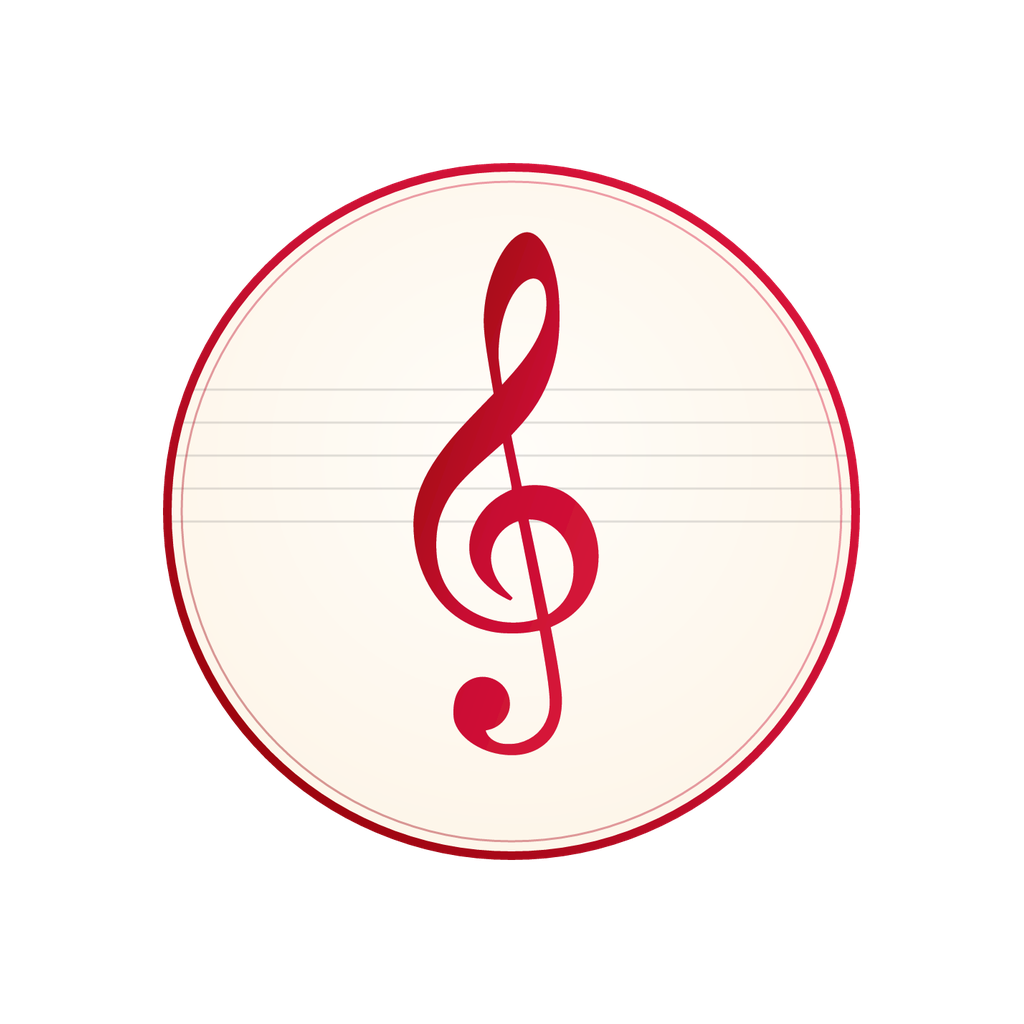
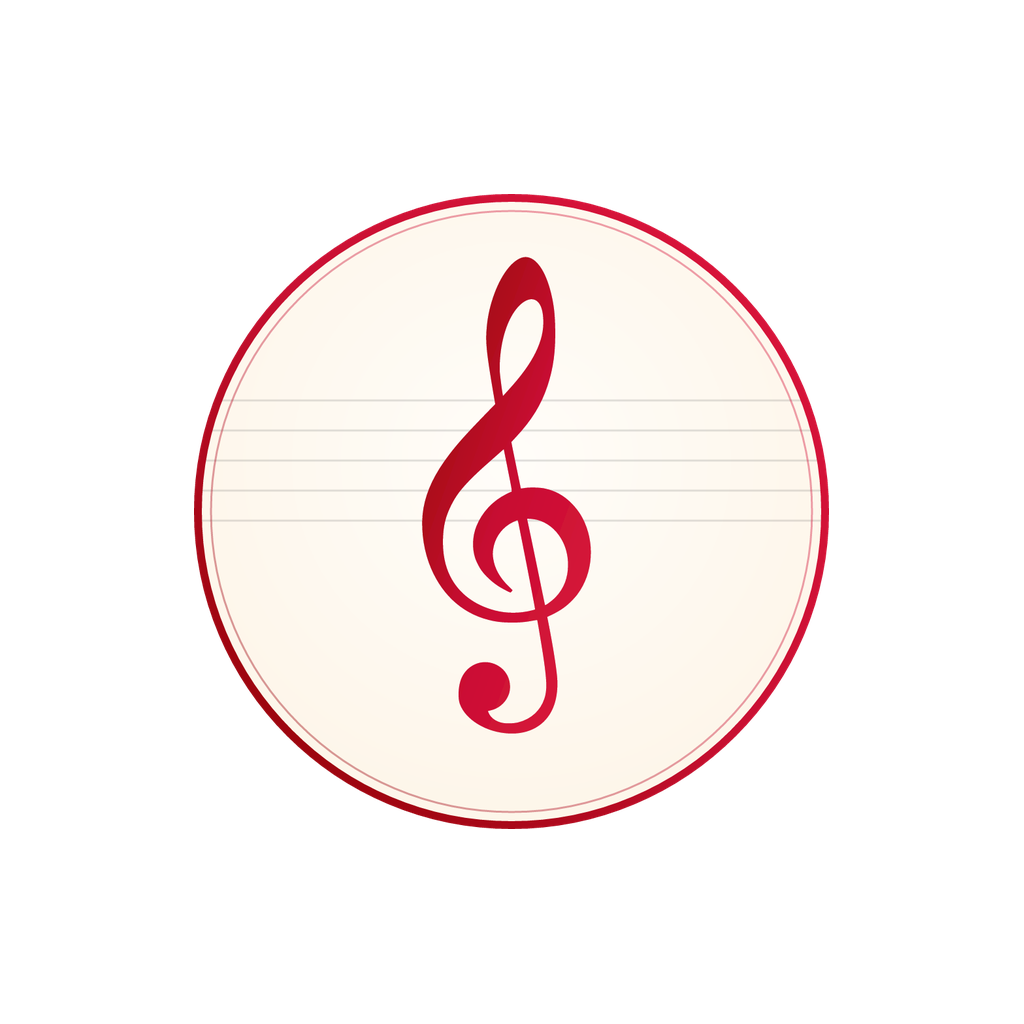
fix: icône de l'appli — disque transparent au lieu d'une tuile noire
icon.png n'avait pas de canal alpha (médaillon sur carré charbon opaque) et
adaptiveIcon.backgroundColor valait ce même charbon. Assets régénérés depuis la source :
icon plein cadre transparent, foreground ramené à 62 % (safe zone), monochromeImage pour
les icônes thématisées d'Android 13+, et fond adaptatif au crème du médaillon.

Changed region(s): [[0.1562, 0.1562, 0.8438, 0.8438]]

diff --git a/app.config.ts b/app.config.ts
@@ -27,9 +27,10 @@ export default ({ config }: ConfigContext): ExpoConfig => ({
     package: IS_DEV ? `${config.android?.package}.dev` : config.android?.package,
     adaptiveIcon: {
       ...config.android?.adaptiveIcon,
-      // Fond d'icône rougeoyant en dev (vs charbon en prod) : distingue les deux tuiles
-      // sans avoir à générer un second jeu d'assets.
-      backgroundColor: IS_DEV ? '#3A1114' : config.android?.adaptiveIcon?.backgroundColor,
+      // Fond d'icône rosé en dev (vs le crème du médaillon en prod) : distingue les deux tuiles
+      // sans avoir à générer un second jeu d'assets. Reste clair, pour que le disque du logo
+      // continue de se fondre dans son fond au lieu de flotter sur une tuile contrastée.
+      backgroundColor: IS_DEV ? '#F7DCD8' : config.android?.adaptiveIcon?.backgroundColor,
     },
   },
 });

diff --git a/CLAUDE.md b/CLAUDE.md
@@ -4,6 +4,8 @@
 
 Après chaque évolution mobile, ajouter ici une entrée de 2 phrases (quoi + où), la plus récente en haut, pour garder le suivi d'une conversation à l'autre.
 
+- **Correctif — l'icône de l'appli s'affichait sur une tuile noire** (2026-08-13) : bug utilisateur (« le logo a un fond noir alors que ça devrait être un simple cercle »). **Deux causes cumulées** : `icon.png` était un PNG **sans canal alpha**, médaillon crème sur carré charbon `#141110` plein bord à bord (c'est l'icône iOS et le `ic_launcher` legacy Android < 8, `minSdk` valant 24) ; et `adaptiveIcon.backgroundColor` valait ce même charbon, donc la couche de fond était noire là aussi et le médaillon (≈ 70 % du canvas, au-delà de la safe zone) se faisait en plus rogner par les masques circulaires stricts. **Tous les assets sont régénérés depuis `allegro_con_fuoco.png`** (source RGBA propre, recadrée sur sa bbox) avec Pillow dans un venv jetable : `icon.png` = médaillon plein cadre **sur fond transparent** ; `adaptive-foreground.png` = médaillon ramené à **62 %** du canvas (safe zone 66/108) ; nouveau `adaptive-monochrome.png` pour les **icônes thématisées d'Android 13+** — silhouette blanche obtenue en dérivant l'alpha de la « rougeur » du pixel (`r - (g+b)/2`, seuil 0,12 : le crème du médaillon tombe à ~0,03, le crimson de la clé et de la bordure à ~0,6, donc clé + anneau ressortent seuls). **`adaptiveIcon.backgroundColor` passe à `#FEF8EE`**, le crème échantillonné dans le médaillon : sous n'importe quel masque (cercle, squircle, carré arrondi) le résultat se lit comme un disque crème à clé de sol, jamais comme une tuile sombre. Variante dev : `#3A1114` → `#F7DCD8` (rosé clair, même logique). ⚠ **Non testé sur appareil** (rendu launcher réel, icônes thématisées) ; ⚠ **iOS** exigerait un fond opaque — hors périmètre (Android only), l'icône y serait transparente si le projet iOS revenait un jour.
+
 - **Refonte accueil — grille d'accès rapides + réductions de clics** (2026-08-13) : deux demandes utilisateur (« une homepage avec des quick access », maquette Spotify à l'appui, et « minimiser au maximum les clics »). **L'accueil ouvre sur une grille 2 × 3** (`flexBasis: '46%'`, aucune mesure d'écran) alimentée automatiquement, dans l'ordre : **Reprendre** (si un point de reprise existe, avec la pochette de la piste), **Favoris**, **En boucle**, **Top \<année\>**, puis les playlists les plus récemment touchées jusqu'à remplir les 6 cases (`loadPlaylists` trie déjà par `updated_at DESC`, aucune requête nouvelle). Chaque tuile sert les **deux intentions en un tap** : le corps ouvre la destination, un bouton `play_arrow` distinct (Pressable imbriqué) lance la lecture. Les pistes d'une playlist ne sont résolues **qu'au tap** — les charger au rendu ferait une requête par tuile à chaque passage sur l'accueil. Les anciennes `ShortcutRow`/`VirtualRow` empilées disparaissent ; la carte des écoutes et la rangée « Récemment ajoutés » restent dessous (cette dernière lance désormais **toute la rangée** comme file, pas le seul titre tapé). **Autres réductions de clics** : loupe + engrenage dans l'en-tête de l'accueil (deux destinations quotidiennes qui coûtaient une ouverture du menu latéral), la loupe passant `q=1` pour que `SearchBar` s'ouvre **clavier déployé** (nouveau prop `autoFocus`) ; **ouverture du menu par glissement depuis le bord gauche** — bande de 20 px toujours interactive rendue **hors** de l'overlay (celui-ci est `pointerEvents: none` quand fermé), qui tire la même valeur animée `tx` que le hamburger donc le relâchement enchaîne sans saut ; `AppDrawer` gagne un prop `onOpen`. **Favoris : les derniers likés passent en tête** — `loadFavoriteIds` triait bien par `added_at DESC` mais `toggleFavorite` faisait `new Set(prev).add(id)`, qui met en queue ; on reconstruit désormais `new Set([id, ...prev])`. ⚠ **Non testé sur appareil** ; ⚠ la bande de bord gauche prime sur le glissement « Lire ensuite » d'une ligne dont le geste démarre dans les 20 premiers pixels (compromis assumé, motif Android standard). tsc + lint + prettier + export web verts.
 
 - **Feature — glissement « Lire ensuite » + bouton favori/playlist sur chaque ligne de piste** (2026-08-13) : deux demandes utilisateur (« swiper vers la droite doit ajouter à Lire ensuite », « un + à droite pour un ajout favoris rapide, et si on reclique on choisit la playlist »). Tout le back-end existait (`playNext`, `toggleFavorite`, `PlaylistPickerSheet`) : il manquait les affordances, qui coûtaient chacune appui long → feuille → action. **Nouveau `SwipeableRow.tsx`** (`Animated` + `PanResponder`, convention projet — gesture-handler n'est pas câblé) : capture **au Move seulement** et uniquement si le geste est franchement horizontal vers la droite (`dx > 12 && dx > |dy| × 2`), donc le scroll vertical de la FlatList, le tap et l'appui long restent intacts ; seuil de validation 96 px avec résistance au-delà, fond accent révélé par interpolation d'opacité ; hauteur figée à `TRACK_ROW_HEIGHT` (contrat `getItemLayout`) et couche mobile à fond opaque. Refs mises à jour en effet sans dépendances (motif MiniPlayer — `react-hooks/refs` interdit l'écriture pendant le rendu). **`TrackRow` : le slot de droite devient actionnable** — la durée migre en fin de sous-titre (`artiste · album · 3:42`, avec filtrage du séparateur orphelin quand `subtitle=""`, cas de la vue artiste), et un bouton 44×44 le remplace : `add` en contour si la piste n'est pas likée (tap = favori), `favorite` plein accent sinon (tap = sélecteur de playlists, appui long = retrait). Priorité du slot : checkbox de sélection > bouton > indicateur `graphic_eq`. **Nouveau hook `useTrackQuickActions`** qui porte les trois handlers (stables, pour ne pas casser le `memo` des lignes) + la feuille de playlists, câblé sur les quatre écrans de listes plates (Morceaux, artiste, album, favoris) ; geste désactivé en mode sélection, et non posé sur les listes réordonnables (`DraggableTrackList`) ni sur les pistes fantômes d'album. ⚠ **Non testé sur appareil** (cohabitation geste/scroll sur liste longue, ripple sur la couche mobile) ; tsc + lint + prettier + export web verts.
